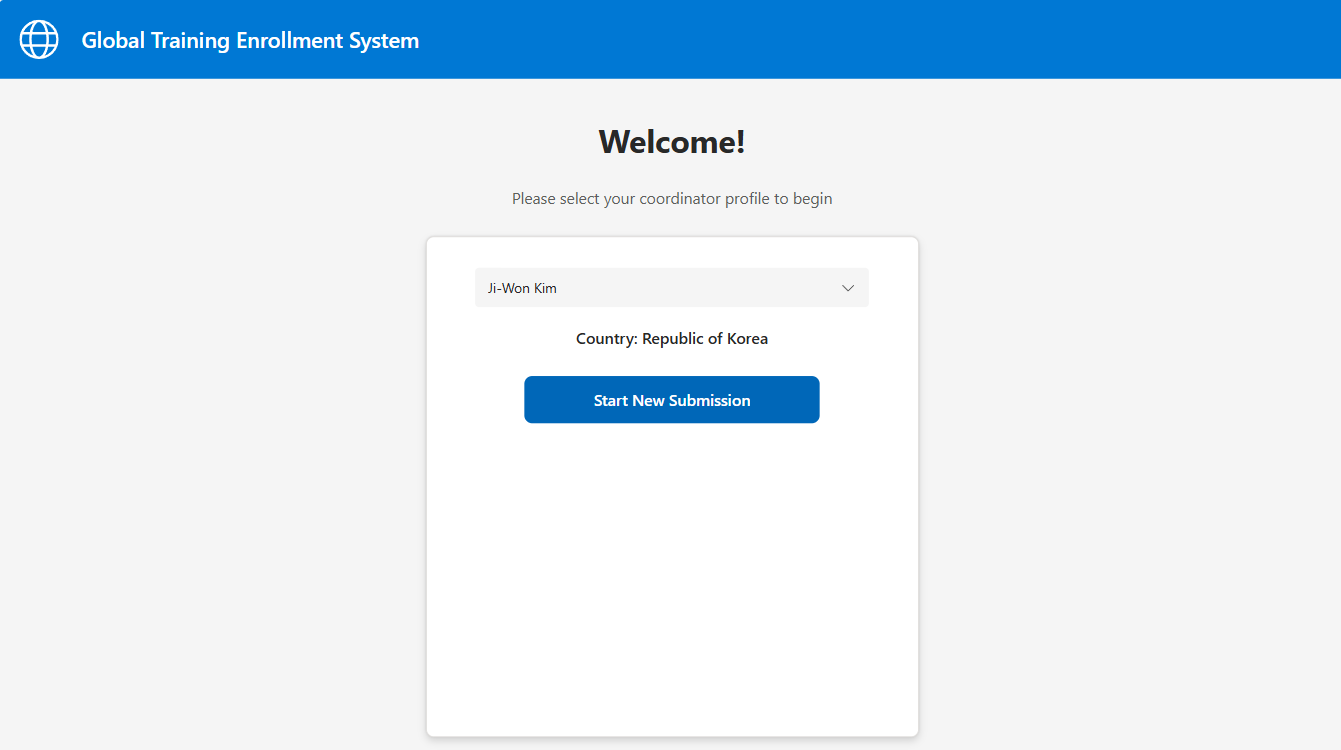
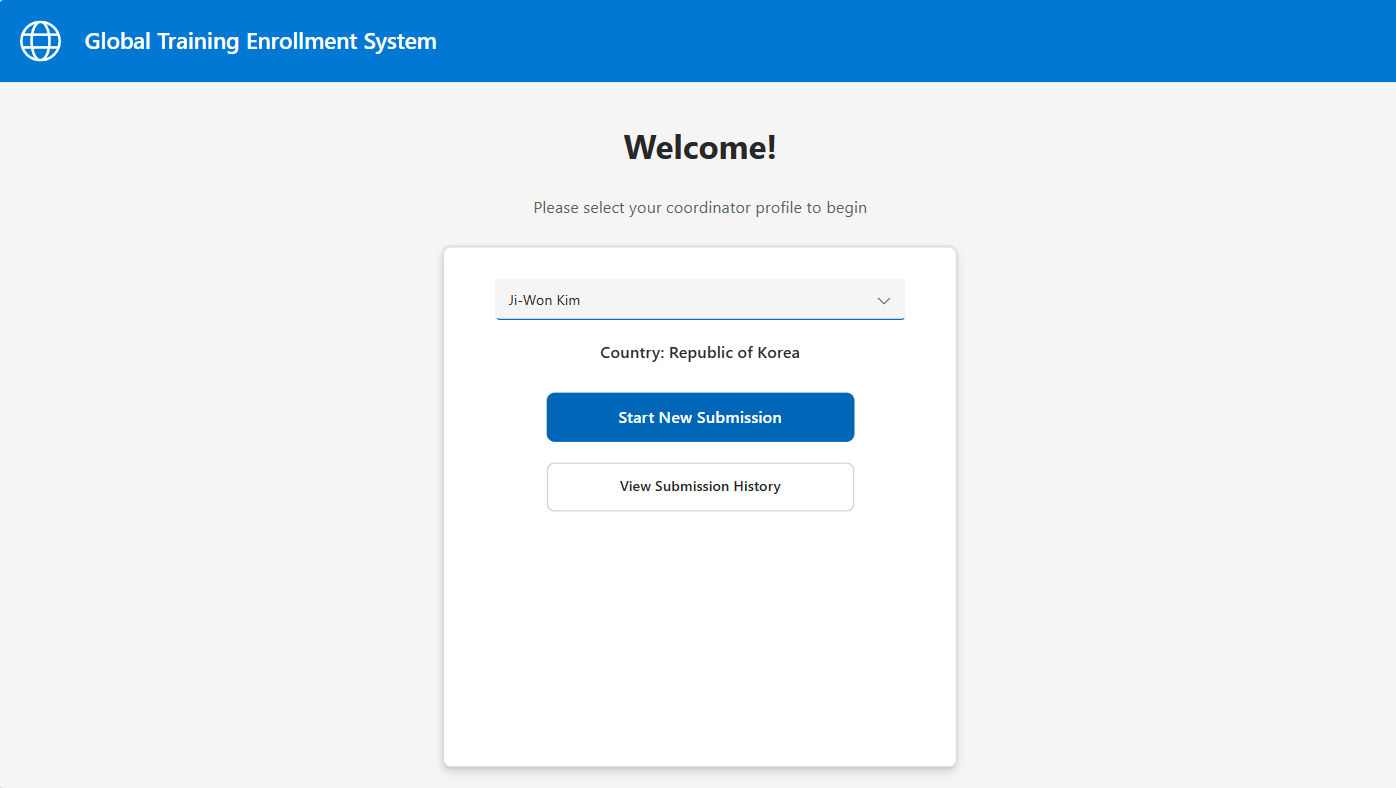
Screenshots added.  README updated

diff --git a/README.md b/README.md
@@ -433,7 +433,7 @@ An integrated Power Platform solution that transforms enrollment data collection
 
 *Screenshots will be added progressively as development proceeds*
 ### Power Apps 
-### Enrollment Submission Portal (Week 2 - Complete)
+### Enrollment Submission Portal (Weeks 2-4 - Complete)
 
 **Screen 1: Welcome & User Selection**
 ![Welcome Screen](power-apps/screenshots/01-GTE_SubmissionPortal/01-welcome-screen.png)
@@ -451,9 +451,31 @@ An integrated Power Platform solution that transforms enrollment data collection
 *Success confirmation with complete submission details and next steps*
 
 **SharePoint Integration**
-![SharePoint Data](power-apps/screenshots/04-sharepoint-data.png)
-![SharePoint Data](power-apps/screenshots/01-GTE_SubmissionPortal/04b-sharepoint-data.png)
-*Successful data writes to tbl_VolumeSubmissions with proper lookup formatting*
+![SharePoint Data - Volume Columns](power-apps/screenshots/01-GTE_SubmissionPortal/04-sharepoint-data.png)
+*Volume data properly stored with lookup relationships to Countries and TestTypes*
+
+![SharePoint Data - Status View](power-apps/screenshots/01-GTE_SubmissionPortal/04b-sharepoint-data-status.png)
+*Successful data writes to tbl_VolumeSubmissions with status tracking and submission metadata*
+
+**Screen 4: Submission History**
+![Submission History - Default View](power-apps/screenshots/01-GTE_SubmissionPortal/05-submission-history-default.png)
+*Full-row clickable pattern with status circles, smart filters, and pagination (showing 1-8 of 23 submissions)*
+
+![Submission History - Validated Filter](power-apps/screenshots/01-GTE_SubmissionPortal/06-submission-history-validated.png)
+*Filtered view showing only validated submissions with green status indicators*
+
+![Submission History - Flagged Items](power-apps/screenshots/01-GTE_SubmissionPortal/07-submission-history-flagged.png)
+*Flagged submissions with red status circles and contextual Resolve action buttons*
+
+**Screen 5: Submission Detail**
+![Submission Detail - Validated Clean](power-apps/screenshots/01-GTE_SubmissionPortal/08-submission-detail-validated-clean.png)
+*Validated submission with variance calculations, validation information, and "No quality issues" confirmation*
+
+![Submission Detail - Flagged Issues](power-apps/screenshots/01-GTE_SubmissionPortal/09-submission-detail-flagged.png)
+*Flagged submission displaying data quality issues with severity-based color coding and detailed descriptions*
+
+![Submission Detail - Edit Mode](power-apps/screenshots/01-GTE_SubmissionPortal/10-submission-detail-edit-draft.png)
+*Inline editing workflow for draft completion - contextual form preserves visibility of submission details*
 
 ### Data Quality Dashboard (Week 4 - In Progress)
 
@@ -554,7 +576,14 @@ global-training-enrollment-system/
 │   │   ├── 02b-submission-form-estimate.png              # Submission portal Submission Form (Estimates)
 │   │   ├── 03-confirmation-screen.png                    # Submission portal Confirmation Screen
 │   │   ├── 04-sharepoint-data.png                        # SharePoint data updated with Submission data
-│   │   ├── 04b-sharepoint-data.png                       # SharePoint data updated with Submission data
+│   │   ├── 04b-sharepoint-data-status.png                # SharePoint data updated with Submission data
+│   │   ├── 05-submission-history-default.png             # Submission history screen - default view (all statuses)
+│   │   ├── 06-submission-history-validated.png           # Submission history screen - filtered to validated only
+│   │   ├── 07-submission-history-flagged.png             # Submission history screen - flagged items with resolve actions
+│   │   ├── 08-submission-detail-validated-clean.png      # Submission detail - validated with no quality issues
+│   │   ├── 09-submission-detail-flagged.png              # Submission detail - flagged with quality issues displayed
+│   │   ├── 10-submission-detail-edit-draft.png           # Submission detail - inline edit mode for draft completion
+│   │   └── 11-submission-detail-edit-resolve.png (TODO)  # Submission detail - inline edit mode for issue resolution
 │   ├── screenshots/01-GTE_DataQuality                    # UI screenshots - Submission Portal
 │   │   ├── 01-submission-tracking-overview.png           # Submission tracking screen overview
 │   │   ├── 02-submission-tracking-filtered.png           # Submission tracking screen filtered view
